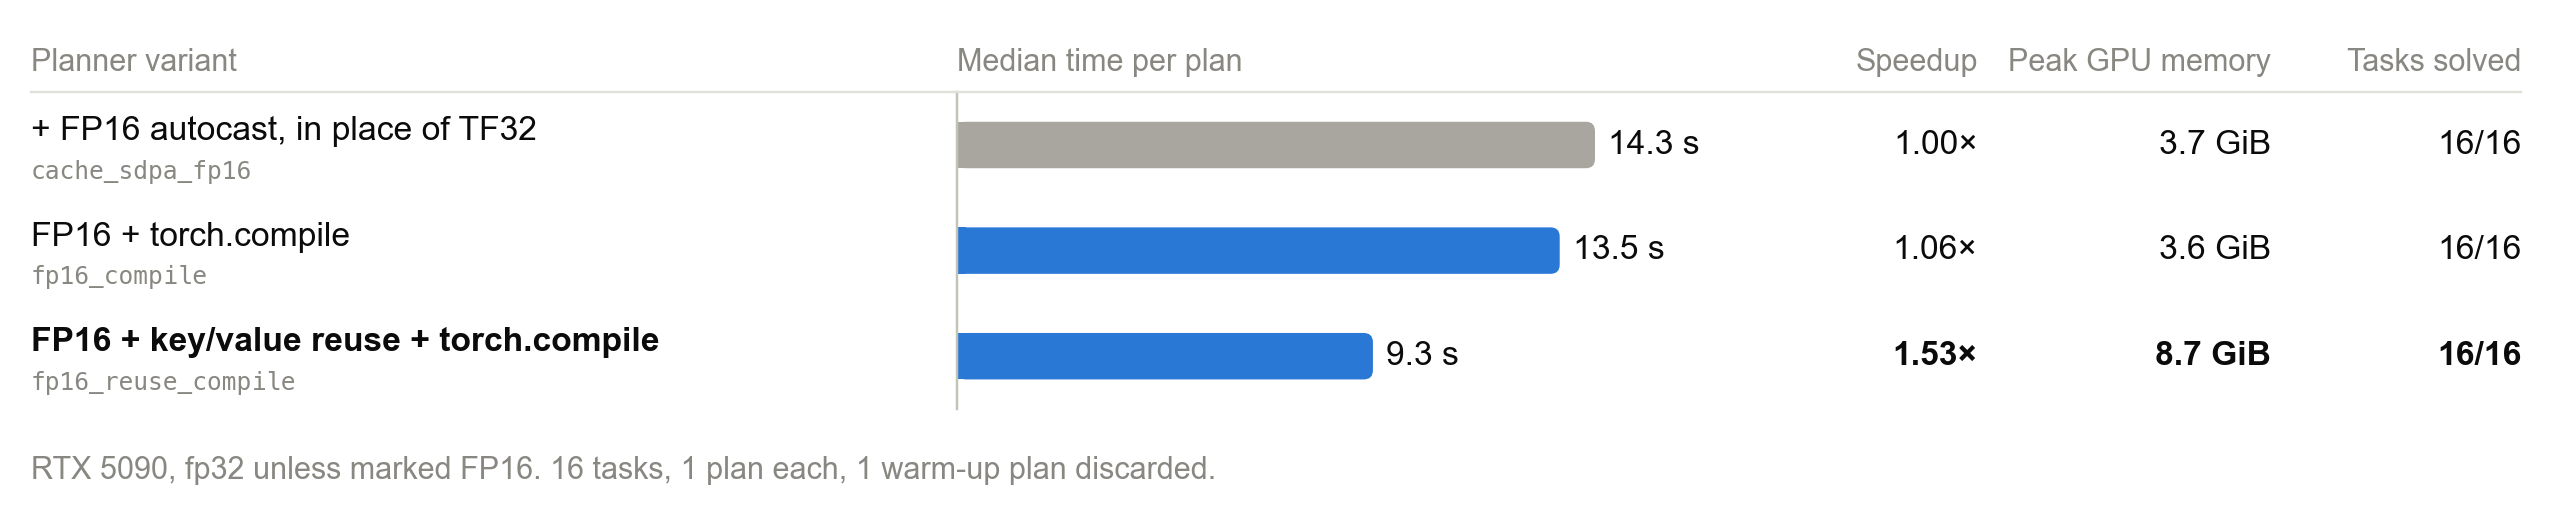
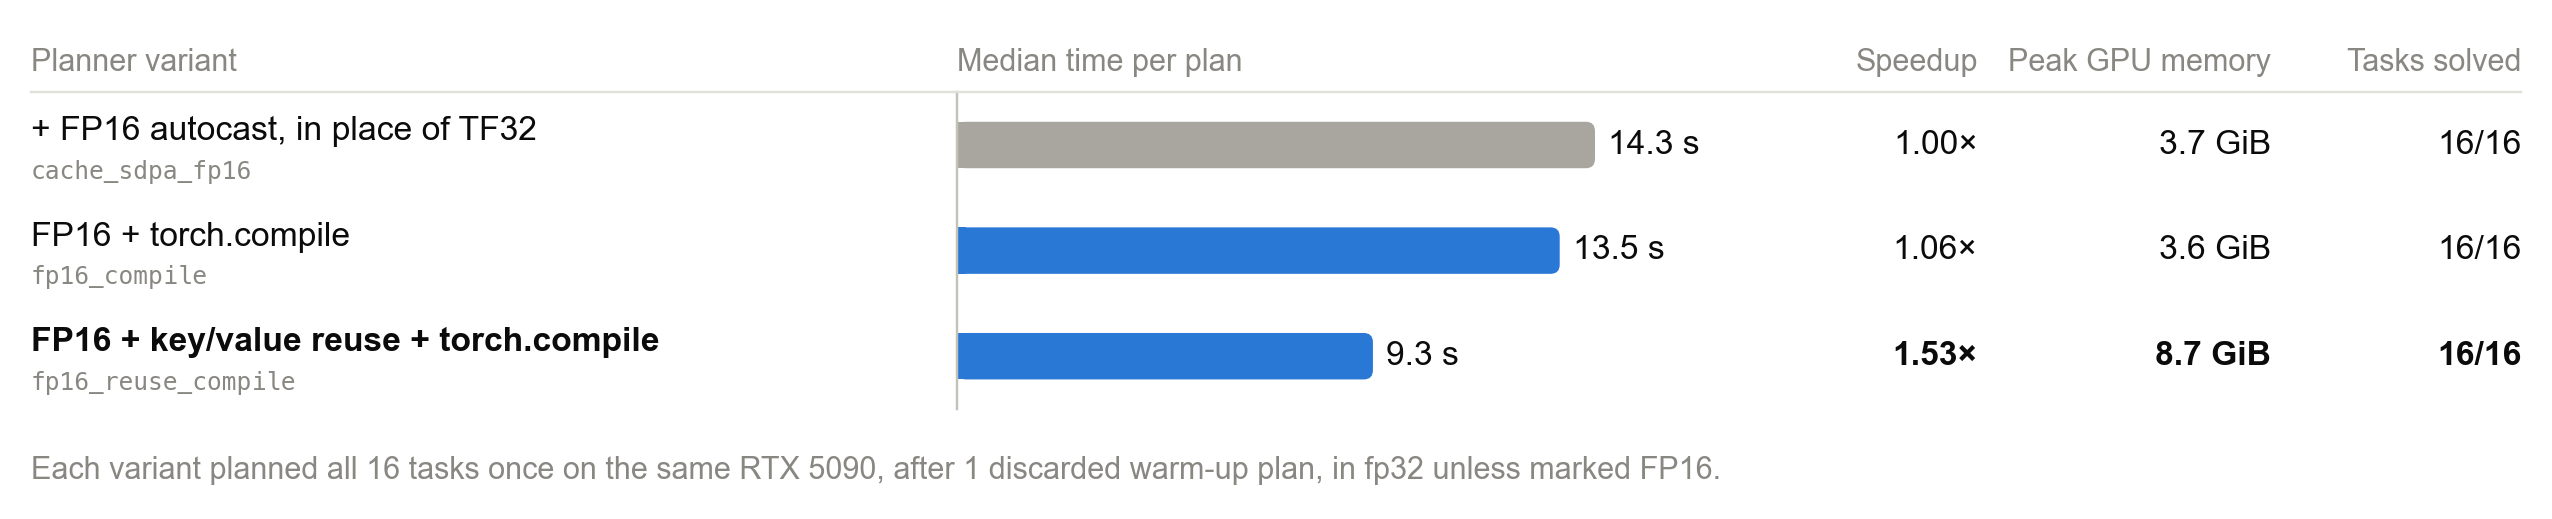
Results figure: conditions as one sentence

Changed region(s): [[0.0, 0.8632, 0.681, 0.9249]]

diff --git a/bench/summarize.py b/bench/summarize.py
@@ -130,7 +130,8 @@ if V:
                  f"{sum(v['success'])}/{len(v['success'])}"]
         for (x, ha, _), text in zip(cols[2:], cells):
             ax.text(x, y, text, transform=row, ha=ha, va="center", fontweight=bold)
-    fig.text(0.012, 0.22 / H, f"{gpu}, fp32 unless marked FP16. {M['n_tasks']} tasks, 1 plan each, {M['warmup_plans']} warm-up plan discarded.",
+    fig.text(0.012, 0.22 / H, f"Each variant planned all {M['n_tasks']} tasks once on the same {gpu}, after {M['warmup_plans']} discarded warm-up "
+             f"plan{'' if M['warmup_plans'] == 1 else 's'}, in fp32 unless marked FP16.",
              fontsize=10, color=MUTED, va="center")
     fig.savefig(path.with_name("summary.png")); plt.close(fig)
 
